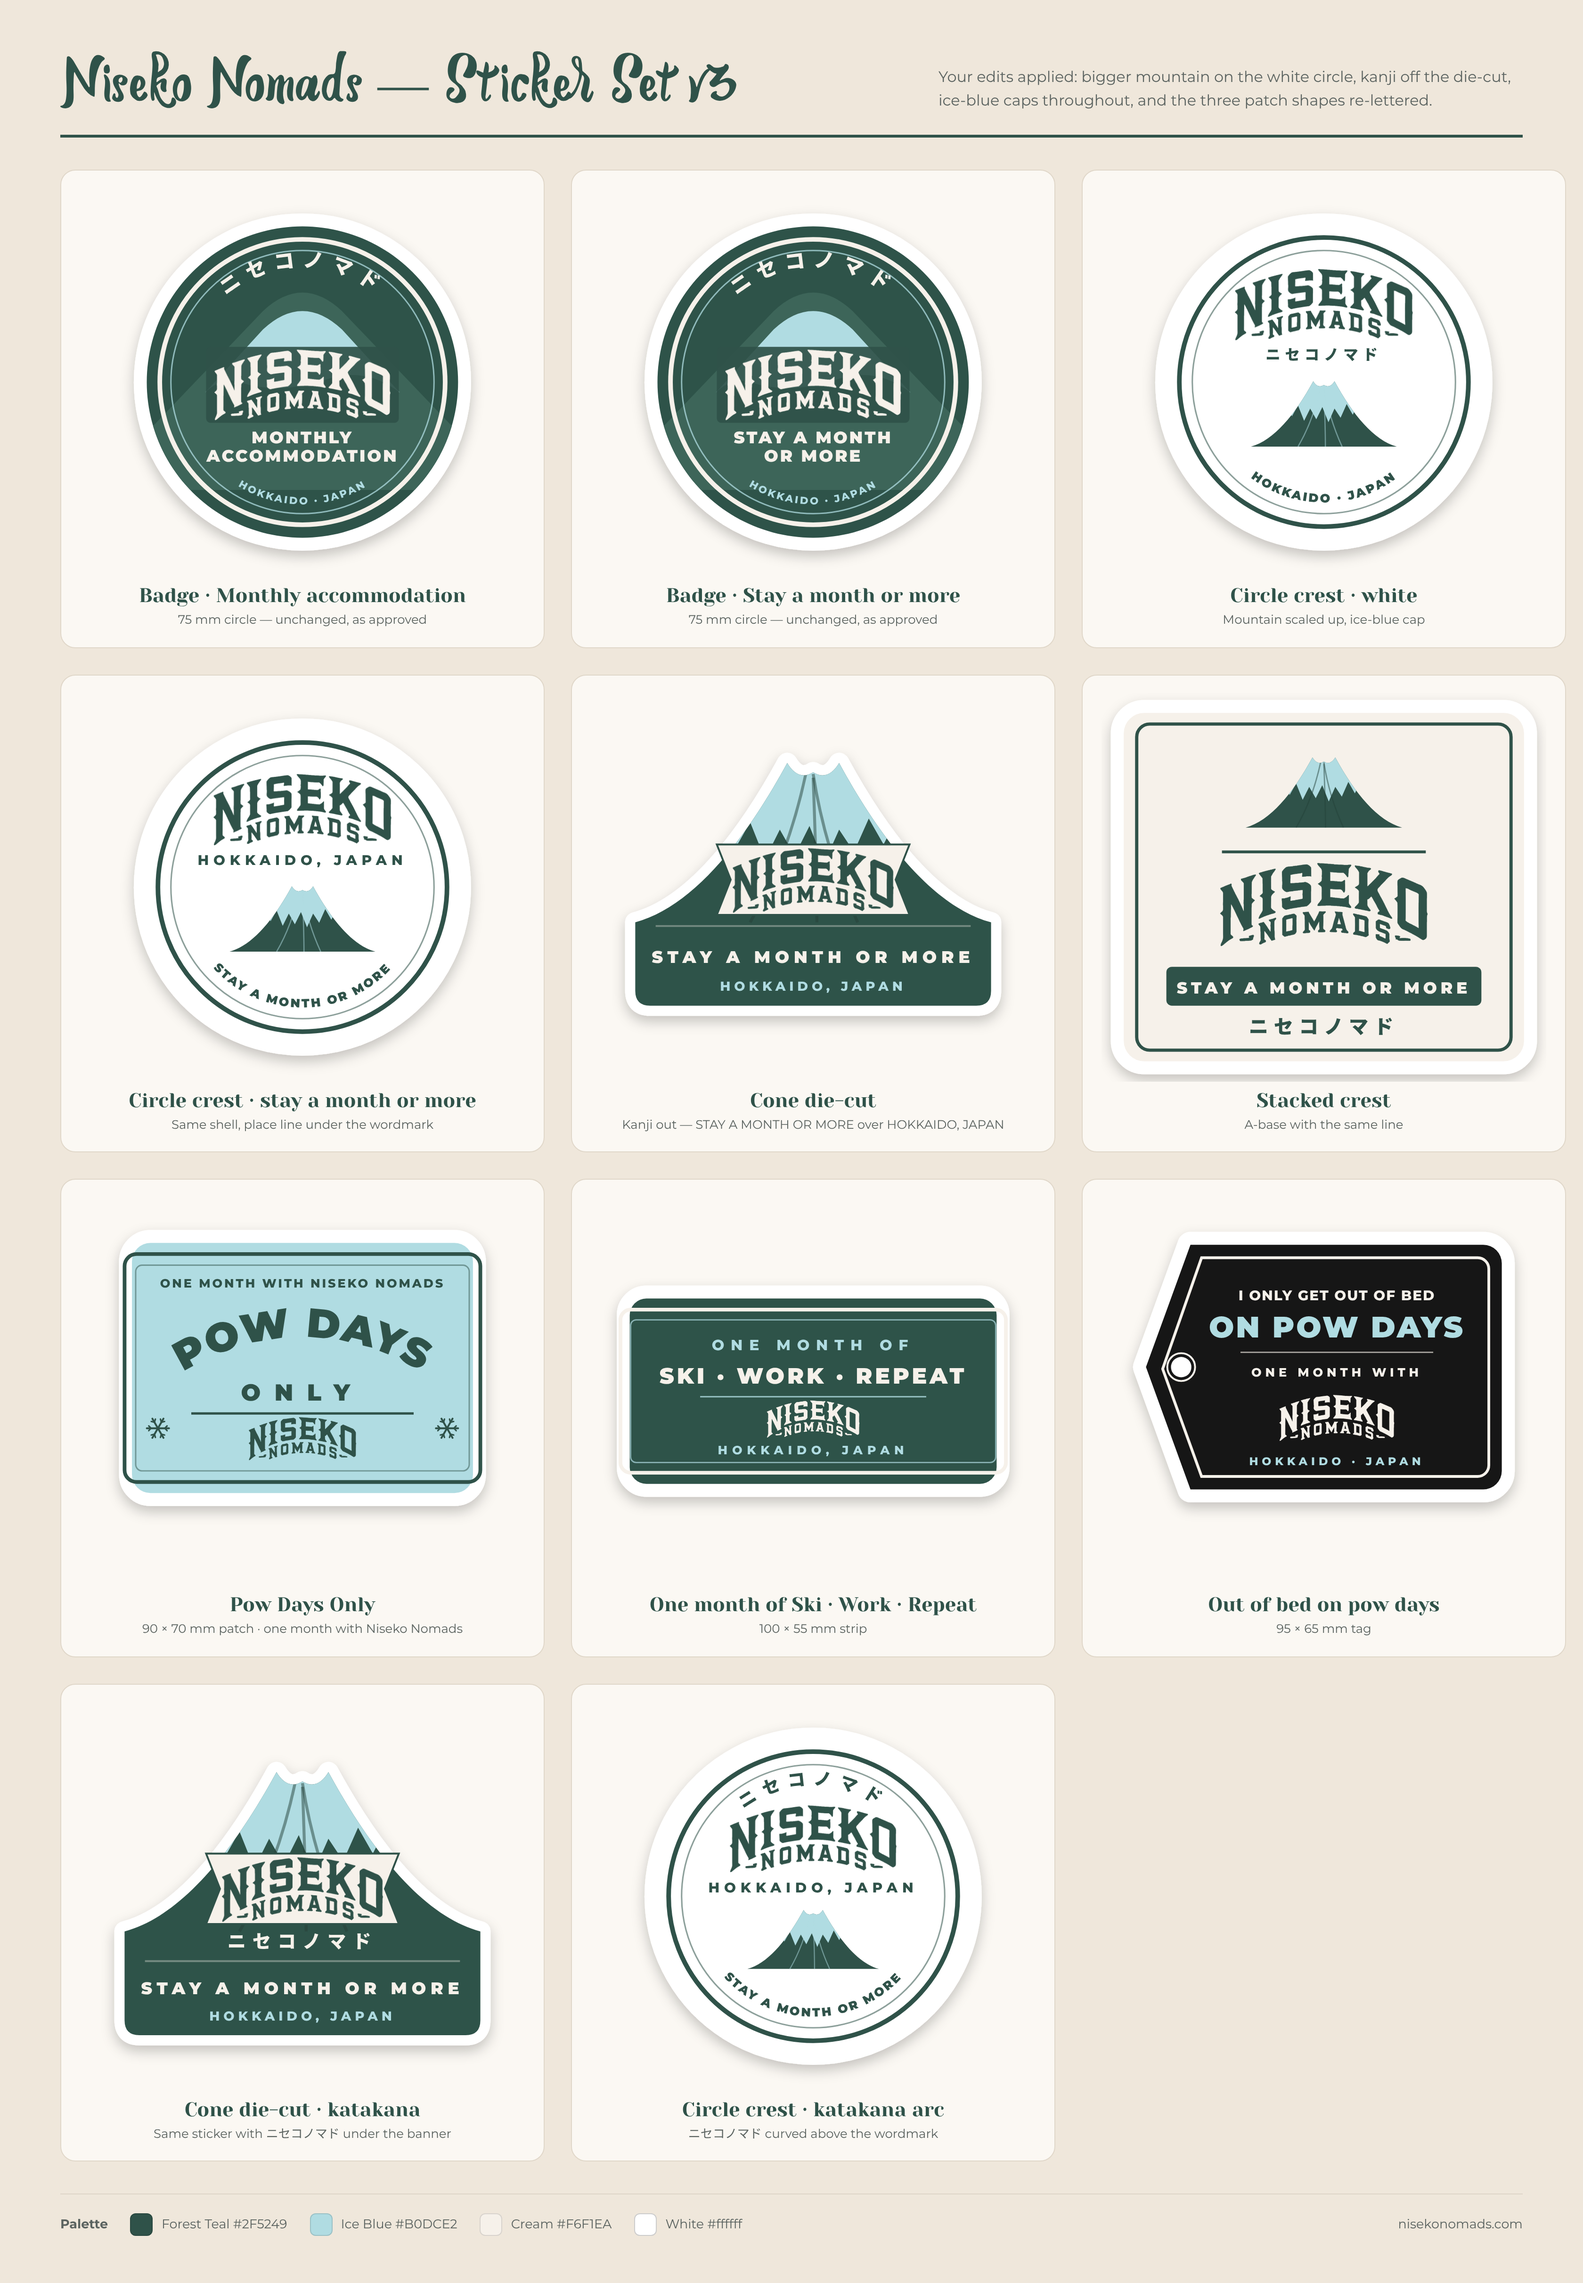
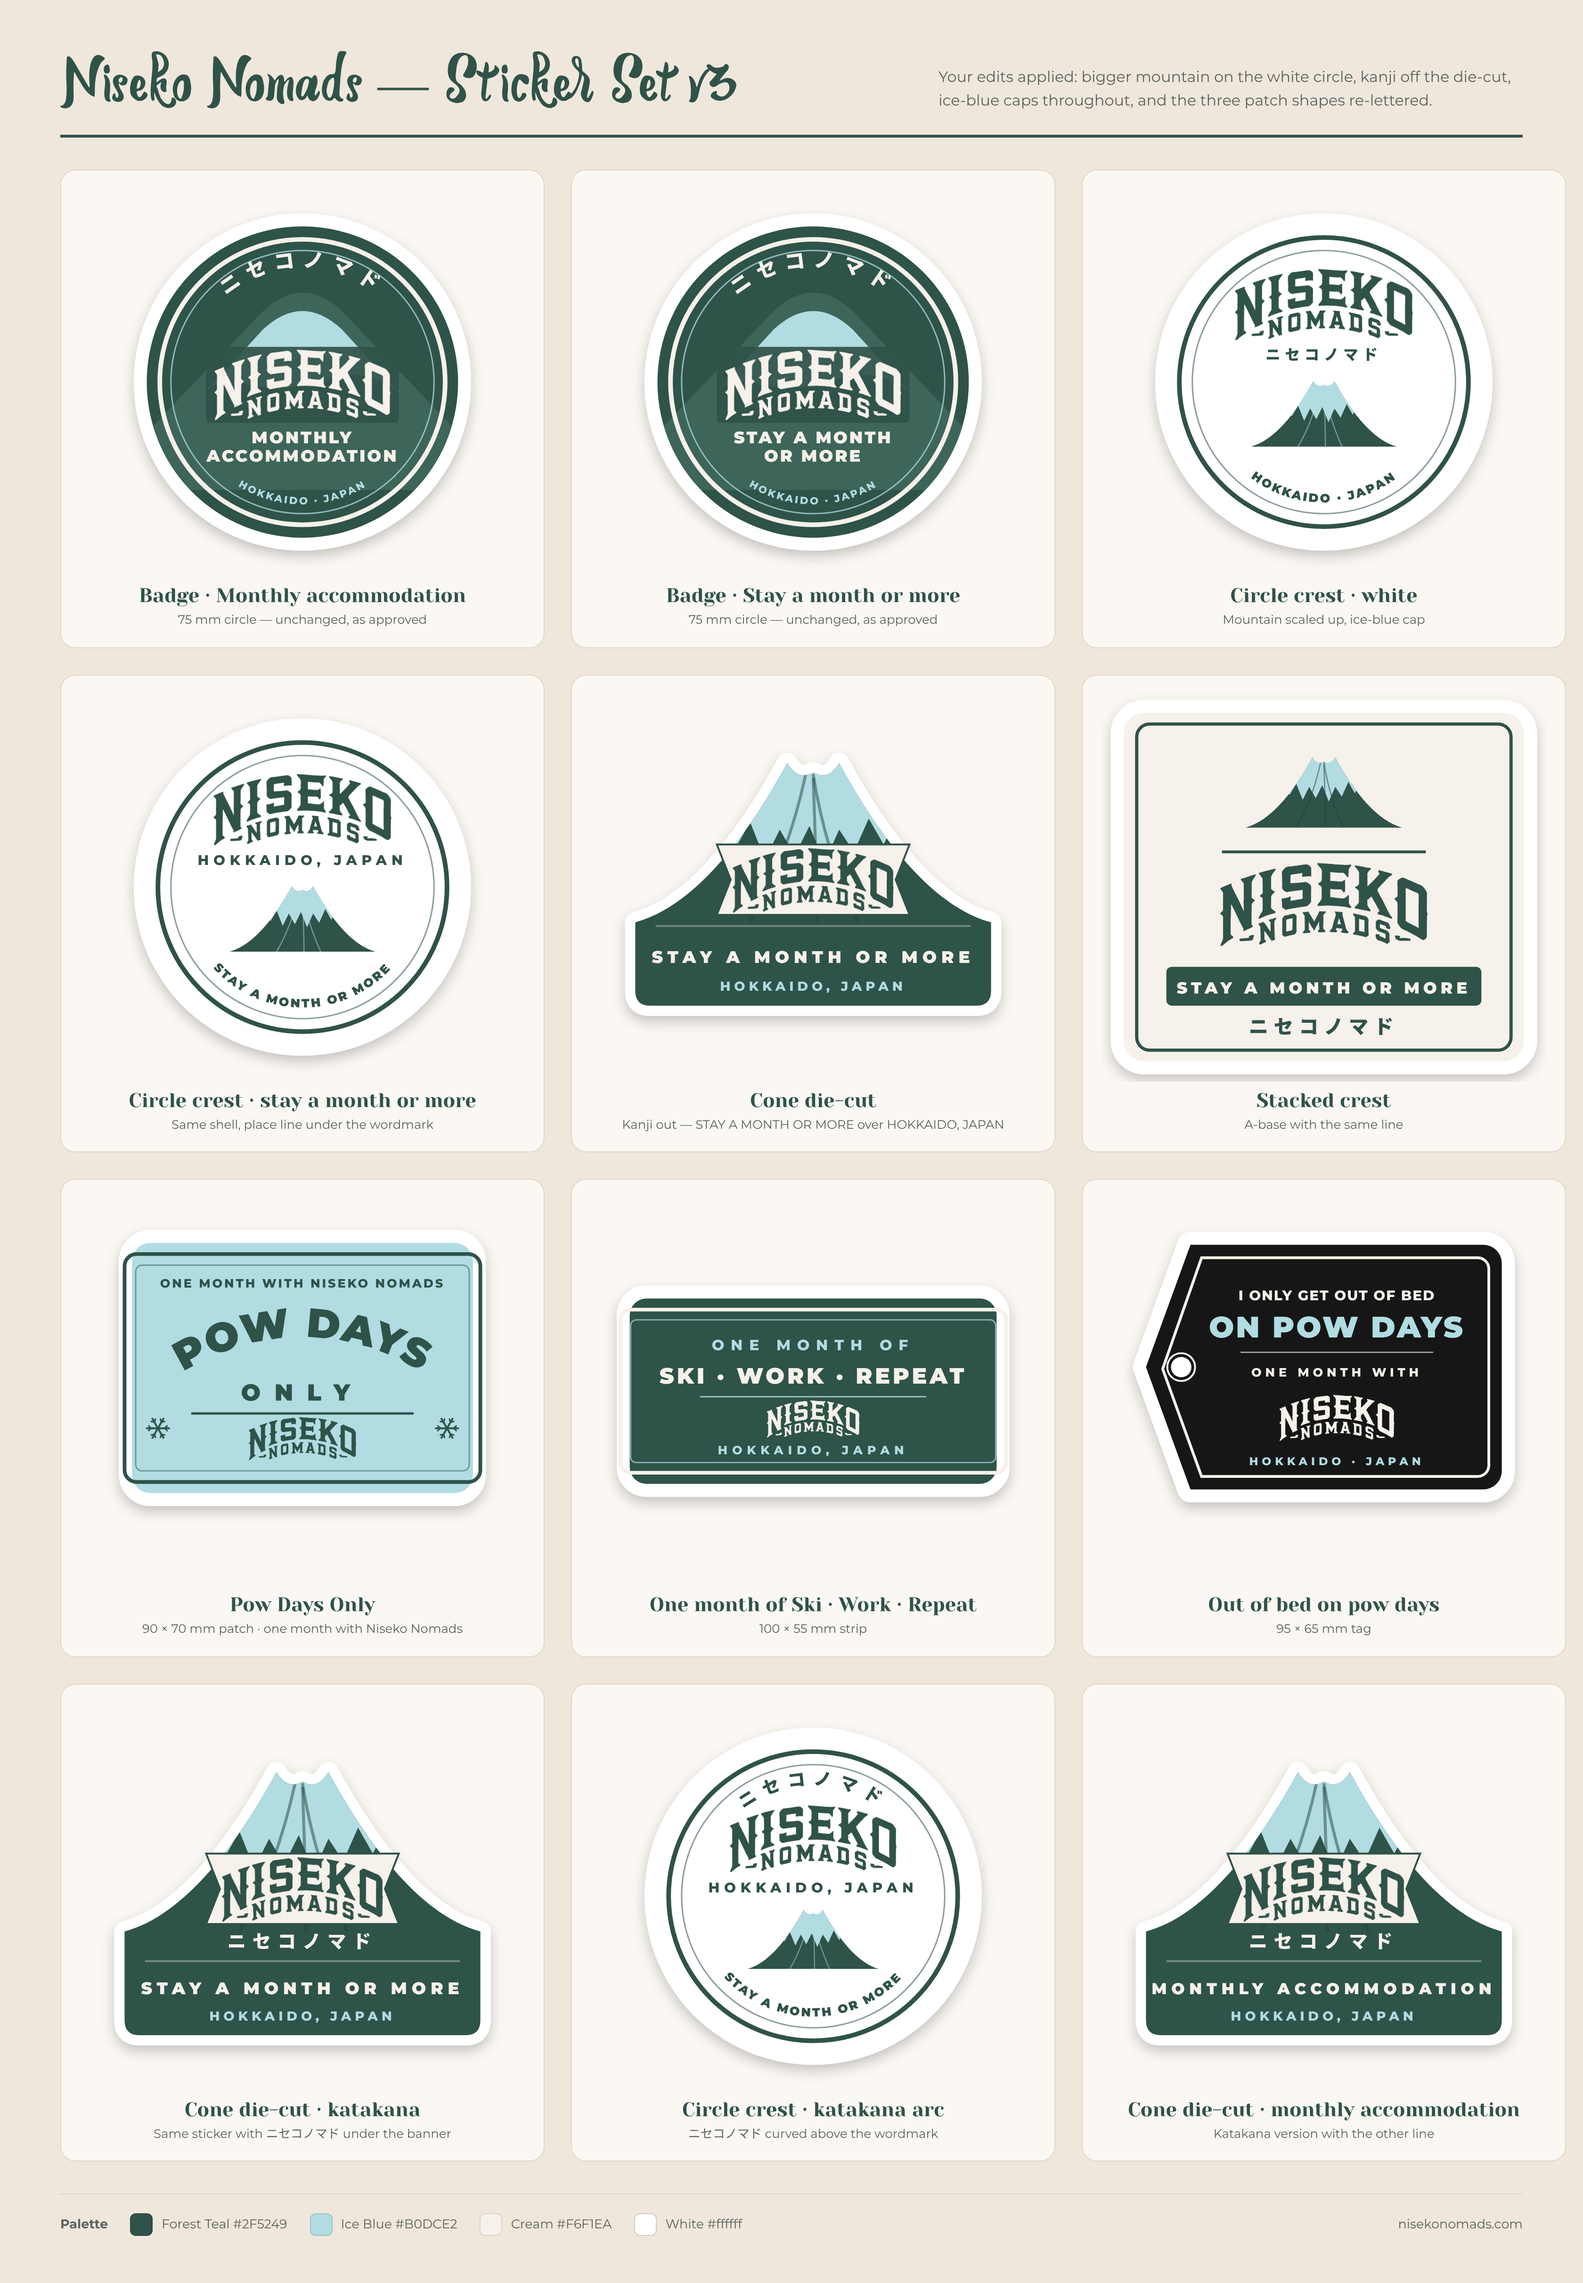
Add cone die-cut, monthly accommodation line

Changed region(s): [[0.7188, 0.7478, 0.9688, 0.9036]]

diff --git a/index.html b/index.html
@@ -120,6 +120,7 @@ const STICKERS = [
   ['09-pow-days-tag','I only get out of bed on pow days','95 × 65 mm tag · charcoal'],
   ['10-cone-die-cut-katakana','Cone die-cut · katakana','Same sticker with ニセコノマド under the banner'],
   ['11-circle-crest-katakana-arc','Circle crest · katakana arc','ニセコノマド curved above the wordmark'],
+  ['12-cone-die-cut-monthly','Cone die-cut · monthly accommodation','Katakana version with the other line'],
 ];
 const SHEETS = [
   ['stickers6','All nine together','The full set on one sheet'],
